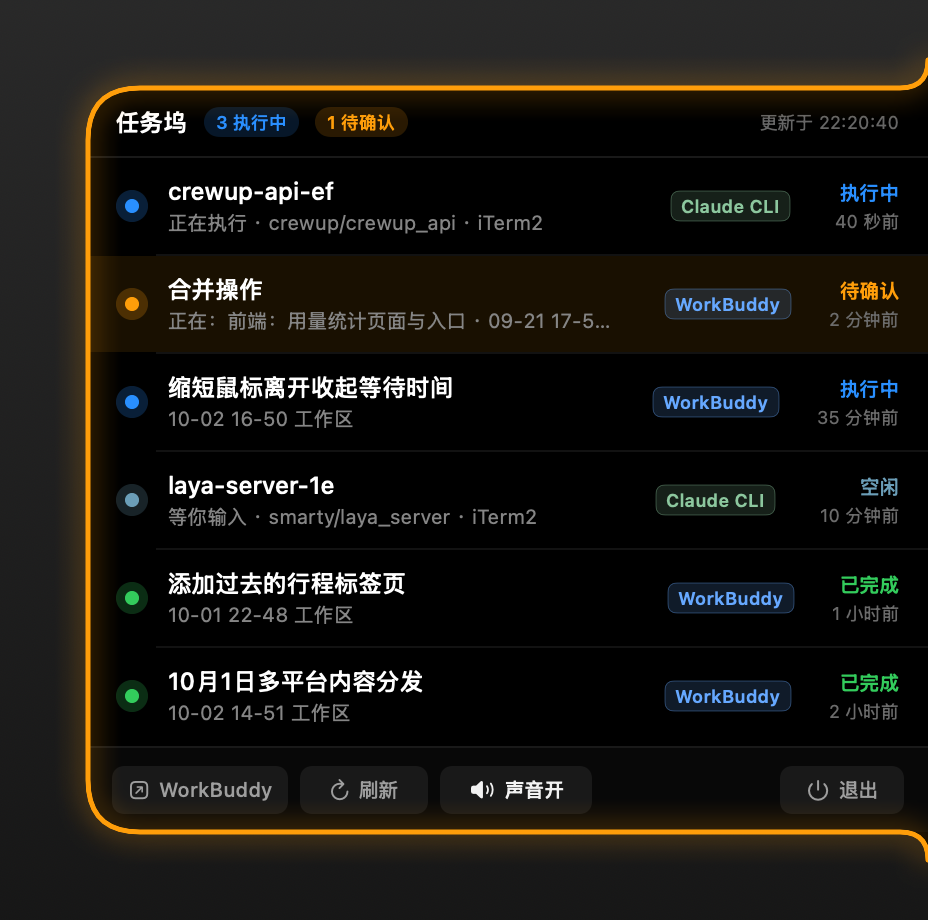
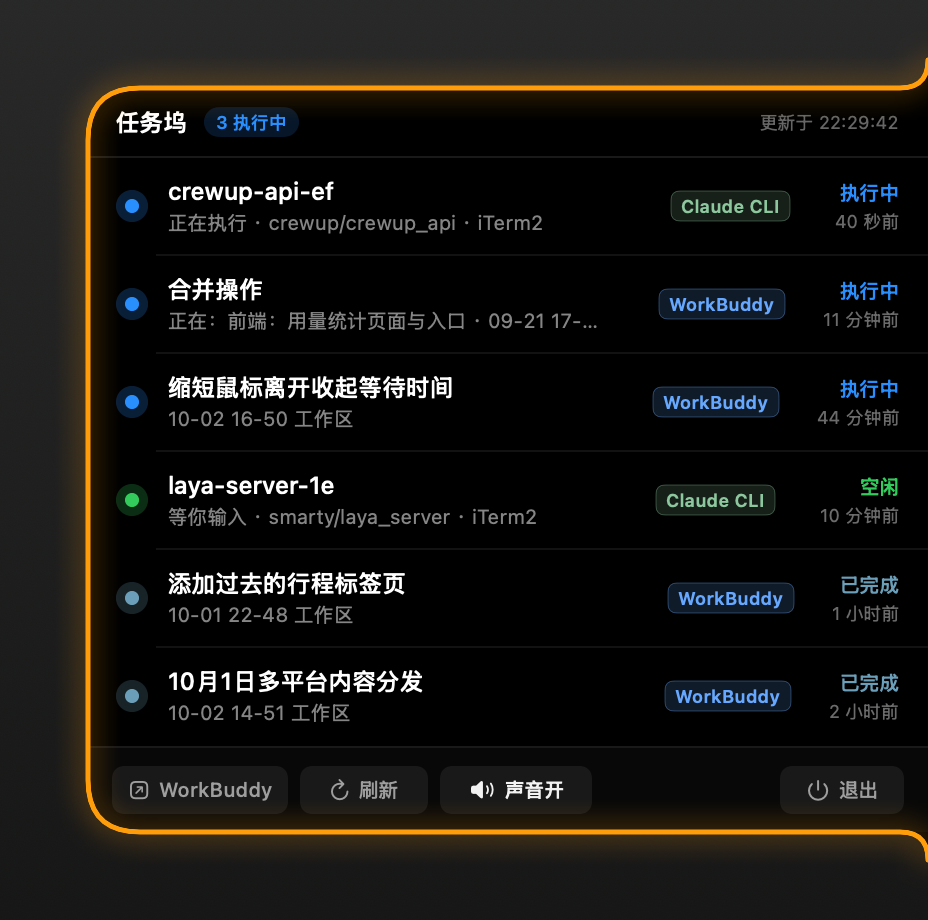
refactor: 两个数据源统一到同一套状态语义
WorkBuddy 与 Claude Code CLI 各自的 status 取值，之前只是各自映射，
同一个词在两边的含义对不上（CLI 的 idle 和 WorkBuddy 的 completed 分列两行）。
现在收敛成一套，并按颜色区分，改配色而不改词：

  执行中  蓝   #298FFF  WorkBuddy working / CLI busy
  待确认  橙   #FF9E0A  WorkBuddy pending、unread!=0、CLI waiting
  空闲    明亮绿 #33CC5C  CLI idle（进程还活着，停在提示符）
  已完成  灰蓝   #6B9EB8  早就结束了
  失败    红    #FF4A3D  error / terminated / result_success=0

`done` 是同一个逻辑状态，只按时间分两个视觉档位（recentDoneWindow = 10 分钟）：
结束 10 分钟内显示成明亮的「空闲」，再久沉成灰蓝的「已完成」。这样视线焦点
自然落在刚有动静的东西上，几十小时前的旧任务不会一直抢眼。

- 颜色是「空闲 ↔ 已完成」对调：空闲由灰蓝换成明亮绿，已完成由明亮绿换成灰蓝
- 展示状态与逻辑状态有意分开（TaskItem.displayState）：needsConfirm 一律显示
  待确认；done 按新鲜度分档。改配色/排序走 displayState，别动 state——
  state 还牵扯告警级别与状态跃迁检测
- 排序也改走 displayState，刚结束的（绿）排在早就结束的（灰）前面
- 新增 `--states`：把整张映射表离线打出来，时间分档只有它能验；
  scripts/smoke-test.sh 增加一节断言同一张表（1/4 → 5 节）
- App 图标的第三颗状态点随之改称「空闲」（配色未变，本来就是那个绿）

diff --git a/Sources/Models.swift b/Sources/Models.swift
@@ -1,11 +1,25 @@
 import Foundation
 import SwiftUI
 
-/// 任务状态（对外展示用）
+/// 任务状态（对外展示用）。
+///
+/// WorkBuddy 和 Claude Code CLI 各自把自家取值映射到这一套上，
+/// 保证同一个词在两个来源里指的是同一件事：
+///
+/// | 状态 | 含义 | 配色 |
+/// |---|---|---|
+/// | `running` | 正在干活 | 蓝 |
+/// | `needConfirm` | 等你确认 / 授权 / 有未读结果 | 橙 |
+/// | `idle` | 没事干（会话活着但停着；或任务刚结束） | **明亮绿** |
+/// | `done` | 早就结束了 | **灰蓝** |
+/// | `failed` | 失败 / 中断 | 红 |
+///
+/// 「刚结束」和「早就结束」是同一个逻辑状态的两个视觉档位，
+/// 由 `TaskItem.displayState` 按时间窗分派，见 `recentDoneWindow`。
 enum TaskState: String {
     case running      // 执行中
-    case idle         // 活着但空闲（终端里的 claude 停在提示符）
-    case needConfirm  // 待确认（等你确认 / 选择，或有未读结果）
+    case idle         // 空闲
+    case needConfirm  // 待确认
     case done         // 已完成
     case failed       // 失败 / 中断
 
@@ -33,9 +47,11 @@ enum TaskState: String {
     var color: Color {
         switch self {
         case .running:     return Color(red: 0.16, green: 0.56, blue: 1.00)
-        case .idle:        return Color(red: 0.42, green: 0.62, blue: 0.72)
         case .needConfirm: return Color(red: 1.00, green: 0.62, blue: 0.04)
-        case .done:        return Color(red: 0.20, green: 0.80, blue: 0.36)
+        // 明亮绿：刚有动静 / 会话活着且空闲
+        case .idle:        return Color(red: 0.20, green: 0.80, blue: 0.36)
+        // 灰蓝：安静下来了（这里用的是「空闲」原来那个颜色）
+        case .done:        return Color(red: 0.42, green: 0.62, blue: 0.72)
         case .failed:      return Color(red: 1.00, green: 0.29, blue: 0.24)
         }
     }
@@ -96,10 +112,21 @@ struct TaskItem: Identifiable, Equatable {
     var updatedAt: Date
     var needsConfirm: Bool = false   // 等你确认 / 有未读结果
 
-    /// 展示用状态：只要「等你关注」，列表里就一律显示成橙黄的「待确认」。
-    /// 否则会出现标题栏写着「N 待确认」、列表里却看不出是哪一个的情况
-    /// （典型场景：任务已完成但结果未读 → needsConfirm 为真、state 仍是 done）。
-    var displayState: TaskState { needsConfirm ? .needConfirm : state }
+    /// 多久之内结束的任务还算「刚完成」
+    static let recentDoneWindow: TimeInterval = 10 * 60
+
+    /// 展示用状态（圆点、状态文字、排序都按它来）。
+    ///
+    /// - 只要「等你关注」→ 一律「待确认」，避免标题栏写着 N 待确认、列表里却找不出是哪一个
+    /// - 刚结束不久的 → 显示成明亮的「空闲」，它已经没事干了、但还「热」
+    /// - 再久 → 沉成灰蓝的「已完成」
+    var displayState: TaskState {
+        if needsConfirm { return .needConfirm }
+        if state == .done, Date().timeIntervalSince(updatedAt) < Self.recentDoneWindow {
+            return .idle
+        }
+        return state
+    }
 
     /// 工作目录的可读标签
     /// - WorkBuddy 的时间戳工作区（2026-10-02-16-56-30）→ 转成「10-02 16:56」这种可读时间

diff --git a/Sources/main.swift b/Sources/main.swift
@@ -40,6 +40,46 @@ if let idx = CommandLine.arguments.firstIndex(of: "--hittest") {
     exit(0)
 }
 
+// 状态映射自检：NotchTasks --states
+// 把「逻辑状态 + 新鲜度」→「展示状态 + 配色」整张表打出来，供人工核对 / 冒烟测试断言。
+// 时间相关的分档（刚完成 vs 早就完成）只有靠它才能离线验。
+if CommandLine.arguments.contains("--states") {
+    func hex(_ c: Color) -> String {
+        guard let s = NSColor(c).usingColorSpace(.sRGB) else { return "?" }
+        return String(format: "#%02X%02X%02X",
+                      Int((s.redComponent * 255).rounded()),
+                      Int((s.greenComponent * 255).rounded()),
+                      Int((s.blueComponent * 255).rounded()))
+    }
+    let now = Date()
+    // (场景, 逻辑状态, 距今多久, 是否需要你确认)
+    let cases: [(String, TaskState, TimeInterval, Bool)] = [
+        ("WorkBuddy working",  .running,     30,          false),
+        ("WorkBuddy pending",  .needConfirm, 30,          true),
+        ("Claude CLI busy",    .running,     5,           false),
+        ("Claude CLI waiting", .needConfirm, 5,           true),
+        ("Claude CLI idle",    .idle,        5,           false),
+        ("完成 10 秒",          .done,        10,          false),
+        ("完成 9 分钟",         .done,        9 * 60,      false),
+        ("完成 11 分钟",        .done,        11 * 60,     false),
+        ("完成 3 小时",         .done,        3 * 3600,    false),
+        ("完成但有未读",        .done,        3 * 3600,    true),
+        ("失败",               .failed,      60,          false),
+    ]
+    print(String(format: "%-18@ %-10@ %-10@ %-8@ %@",
+                 "场景" as NSString, "逻辑" as NSString, "展示" as NSString, "配色" as NSString, "排序" as NSString))
+    for (name, state, age, confirm) in cases {
+        var item = TaskItem(id: name, kind: .session, title: name, detail: nil, cwd: nil,
+                            state: state, updatedAt: now.addingTimeInterval(-age))
+        item.needsConfirm = confirm
+        let shown = item.displayState
+        print(String(format: "%-18@ %-10@ %-10@ %-8@ %d",
+                     name as NSString, state.label as NSString,
+                     shown.label as NSString, hex(shown.color) as NSString, shown.sortRank))
+    }
+    exit(0)
+}
+
 // 无 GUI 自检：NotchTasks --dump  打印当前读取到的任务后退出
 if CommandLine.arguments.contains("--dump") {
     let store = TaskStore()

diff --git a/Sources/TaskStore.swift b/Sources/TaskStore.swift
@@ -129,7 +129,9 @@ final class TaskStore: ObservableObject {
         lastRefresh = Date()
 
         items.sort { a, b in
-            if a.state.sortRank != b.state.sortRank { return a.state.sortRank < b.state.sortRank }
+            // 按「展示状态」排：刚结束的（显示成空闲绿）要排在早就结束的（已完成灰）前面
+            let ra = a.displayState.sortRank, rb = b.displayState.sortRank
+            if ra != rb { return ra < rb }
             return a.updatedAt > b.updatedAt
         }
 
@@ -262,7 +264,7 @@ final class TaskStore: ObservableObject {
             // WorkBuddy 的 status 实际取值：working / pending / completed /
             // error / terminated / archived（archived 已在 SQL 里排除）。
             // 注意 pending **不是「排队」**，而是停在等你确认 / 选择，
-            // 所以映射成待确认（橙黄），并让它参与告警。
+            // 所以映射成「待确认」（橙黄），并让它参与告警。
             let state: TaskState
             switch raw {
             case "working":             state = .running
@@ -291,9 +293,14 @@ final class TaskStore: ObservableObject {
     private func fetchClaudeSessions() -> [TaskItem] {
         if demoClaude { return Self.demoClaudeItems() }
         return ClaudeStore.liveSessions().map { s in
-            // Claude Code 的 status 已知取值：busy / idle / waiting。
-            // waiting = 停在等用户确认或授权（status == waiting 时才有 waitingFor），
-            // 其余未知取值一律按「在跑」处理，并把原值显示出来便于排查。
+            // Claude Code 的 status 已知取值：busy / idle / waiting，
+            // 和 WorkBuddy 那边的映射对齐（同一个词 = 同一件事）：
+            //
+            //   busy    → 执行中   （= WorkBuddy working）
+            //   waiting → 待确认   （= WorkBuddy pending，且带 waitingFor）
+            //   idle    → 空闲     （会话活着但停着；WorkBuddy 那边没有对应概念）
+            //
+            // 未知取值按「在跑」处理，原值只写进调试日志，不显示到界面上。
             let st = s.status.lowercased()
             let detail: String
             switch st {

diff --git a/tools/make-icon.swift b/tools/make-icon.swift
@@ -5,7 +5,7 @@
 //   swift tools/make-icon.swift
 //
 // 图标就是 App 本身的缩影：一块深色「屏幕」，右边缘挂着一个带反角的把手，
-// 左边三颗状态点（执行中 / 待确认 / 已完成），用的是 App 里同一套颜色。
+// 左边三颗状态点（执行中 / 待确认 / 空闲），用的是 App 里同一套颜色。
 // 设计基准 1024×1024，等比缩放到各尺寸；改完重跑本脚本即可。
 //
 import AppKit
@@ -20,7 +20,7 @@ let docs = root.appendingPathComponent("docs")
 // MARK: 颜色（与 Sources/Models.swift 里的 TaskState.color 对齐）
 let cRunning = CGColor(red: 0.16, green: 0.56, blue: 1.00, alpha: 1)
 let cConfirm = CGColor(red: 1.00, green: 0.62, blue: 0.04, alpha: 1)
-let cDone    = CGColor(red: 0.20, green: 0.80, blue: 0.36, alpha: 1)
+let cIdle    = CGColor(red: 0.20, green: 0.80, blue: 0.36, alpha: 1)
 
 /// 右侧贴边、左圆角、右侧带反角的把手——和 App 里 DockShape 同一套几何
 func handlePath(_ rect: CGRect, corner: CGFloat, notch: CGFloat) -> CGPath {
@@ -74,9 +74,9 @@ func makeIcon(px: Int) -> CGImage? {
     }
     ctx.restoreGState()
 
-    // ---- 左：三颗状态点（执行中 / 待确认 / 已完成）----
+    // ---- 左：三颗状态点（执行中 / 待确认 / 空闲）----
     // x 取「squircle 左边缘」到「把手左边缘」的中点，视觉上才不偏
-    let dots: [(y: CGFloat, c: CGColor)] = [(404, cRunning), (512, cConfirm), (620, cDone)]
+    let dots: [(y: CGFloat, c: CGColor)] = [(404, cRunning), (512, cConfirm), (620, cIdle)]
     for d in dots {
         ctx.setShadow(offset: .zero, blur: 40, color: d.c.copy(alpha: 0.9))
         ctx.setFillColor(d.c)

diff --git a/README.md b/README.md
@@ -95,8 +95,17 @@ cd agent_task_hub
 | WorkBuddy（对话 / 自动化） | `WorkBuddy` | 蓝 | 切回 WorkBuddy |
 | 终端 Claude Code CLI | `Claude CLI` | 绿 | 切到 iTerm2 |
 
-状态则由左侧圆点 + 右侧文字表示（执行中 / 空闲 / 待确认 / 已完成 / 失败），
-和来源是两个独立的维度，互不干扰。
+状态由左侧圆点 + 右侧文字表示，**按颜色区分**，不用去猜词义：
+
+| 状态 | 颜色 | 什么时候 |
+|---|---|---|
+| 执行中 | 蓝 | 正在干活 |
+| **待确认** | 橙 | 等你确认 / 授权 / 有未读结果 |
+| 空闲 | 明亮绿 | 没事干：会话活着但停着，或任务刚结束不久 |
+| 已完成 | 灰蓝 | 早就结束了 |
+| 失败 | 红 | 失败 / 中断 |
+
+和来源是两个独立的维度，互不干扰：来源看右侧标签，状态看圆点 + 颜色。
 
 ## 提醒形态
 
@@ -187,22 +196,47 @@ cd agent_task_hub
 
 ## 状态映射
 
-| 展示 | 来源 |
-|---|---|
-| 执行中 | WorkBuddy `sessions.status = 'working'` / CLI `status = 'busy'` |
-| **待确认** | WorkBuddy `sessions.status = 'pending'`（**等你确认 / 选择**）、CLI `status = 'waiting'`、`sessions.unread = 1`、自动化 `automation_runs.read_at IS NULL` |
-| 空闲 | CLI `status = 'idle'`（进程还在，停在提示符） |
-| 已完成 | `sessions.status = 'completed'` |
-| 失败 | `status in ('error','terminated')` / 自动化 `result_success = 0` |
-| 不显示 | `sessions.status = 'archived'` |
+WorkBuddy 和 Claude Code CLI 各自把自家取值映射到**同一套**状态上，
+同一个词在哪边都是同一件事：
+
+| 展示 | 含义 | 配色 | 来源 |
+|---|---|---|---|
+| 执行中 | 正在干活 | 蓝 `#298FFF` | WorkBuddy `status = 'working'` / CLI `status = 'busy'` |
+| **待确认** | 等你确认 / 授权 / 有未读结果 | 橙 `#FF9E0A` | WorkBuddy `status = 'pending'`、`unread != 0`、自动化 `read_at IS NULL`、CLI `status = 'waiting'` |
+| 空闲 | 没事干 | **明亮绿** `#33CC5C` | CLI `status = 'idle'`（进程还在、停在提示符）；**或任务刚结束**（见下） |
+| 已完成 | 早就结束了 | **灰蓝** `#6B9EB8` | `status = 'completed'`，且结束已超过 10 分钟 |
+| 失败 | 失败 / 中断 | 红 `#FF4A3D` | `status in ('error','terminated')` / 自动化 `result_success = 0` |
+| 不显示 | — | — | `status = 'archived'` |
+
+### 「刚完成」与「早就完成」
+
+`done` 是**同一个逻辑状态**，只按时间分成两个视觉档位
+（`TaskItem.recentDoneWindow`，默认 10 分钟）：
+
+| 结束距今 | 显示 | 配色 |
+|---|---|---|
+| ≤ 10 分钟 | 空闲 | 明亮绿，还「热」 |
+| > 10 分钟 | 已完成 | 灰蓝，安静下来了 |
+
+这样视线焦点天然落在「刚有动静的东西」上，而几十小时前的旧任务不会一直抢眼。
+排序也走展示状态，所以刚结束的（绿）排在早就结束的（灰）前面。
+
+> CLI 的 `idle` 一直显示成绿色的「空闲」——进程还活着，随时可以接着用；
+> 而 WorkBuddy 的任务结束了就是结束了，所以会随着时间从绿沉到灰。
 
 > ⚠ WorkBuddy 的 `pending` 很容易被误读成「排队中」，实际含义是**停在等你确认 / 选择**。
-> 本 App 把它映射成橙黄色的「待确认」并让它参与把手告警——
+> 本 App 把它映射成橙黄的「待确认」并让它参与把手告警——
 > 一个卡在等你回话的任务，正是最该提醒你的事。
->
+
 > 「有未读结果」和「等待确认」都套 24 小时窗口，避免一个没人理会的旧状态让把手永久亮着。
 
 时间窗：列表只显示 7 天内；更早的旧未读不再当作待确认，避免永久亮灯。
+
+整套映射可以离线打出来核对（冒烟测试也在断言它）：
+
+```bash
+./build/NotchTasks --states
+```
 
 ## 构建与运行
 
@@ -221,6 +255,7 @@ make help                # 全部命令（build / run / test / preview / icons /
 ./build/NotchTasks --preview /tmp/np         # 离屏渲染各状态界面 PNG（不需要屏幕录制权限）
 ./build/NotchTasks --animframes /tmp/an      # 逐帧渲染生长动画（progress 0→1），验证锚点
 ./build/NotchTasks --hittest 150 81 6        # 面板内坐标 → 命中的行/底栏按钮
+./build/NotchTasks --states                  # 状态映射表（逻辑状态 → 展示状态 + 配色）
 ```
 
 在真实窗口里抓展开动画的帧（离屏渲染验证不了窗口/容器在各时刻的实际状态）：

diff --git a/CONTRIBUTING.md b/CONTRIBUTING.md
@@ -45,13 +45,14 @@ NOTCHTASKS_DEBUG=1 NOTCHTASKS_ANIMPROBE=/tmp/live \
 ./build/NotchTasks --preview /tmp/np         # 离屏渲染各状态 PNG
 ./build/NotchTasks --animframes /tmp/an      # 逐帧渲染生长动画
 ./build/NotchTasks --hittest 150 90 6        # 面板内坐标 → 命中的行/底栏按钮
+./build/NotchTasks --states                  # 状态映射表（逻辑状态 → 展示状态 + 配色）
 ```
 
 ## 代码结构
 
 ```
 Sources/
-  main.swift        入口，--dump / --preview / --animframes / --hittest
+  main.swift        入口，--dump / --preview / --animframes / --hittest / --states
   Models.swift      TaskItem / TaskKind / TaskState / AlertLevel
   Database.swift    只读 SQLite（快照复制后查询）
   ClaudeStore.swift 终端 Claude Code CLI 会话（只读 ~/.claude/sessions）
@@ -108,6 +109,20 @@ SwiftUI 的 `Button` / `onTapGesture` 收不到点击。所以行点击和底栏
   （如 `"permission prompt"`）——漏了它就会掉进兜底分支，把英文状态显示到界面上
 
 遇到没见过的取值：映射按「运行中」兜底，原始值写进 `NOTCHTASKS_DEBUG` 日志，别直接显示给用户。
+
+**另一个坑：逻辑状态 ≠ 展示状态。**
+
+`TaskItem.state` 是数据源给的逻辑状态，列表上画的是 `TaskItem.displayState`，两者有意分开：
+
+- `needsConfirm` 为真 → 一律显示「待确认」。否则会出现标题栏写着「N 待确认」、
+  列表里却看不出是哪一个
+- `done` 按 `recentDoneWindow`（10 分钟）分档：窗口内显示成明亮的「空闲」绿，
+  再久沉成灰蓝的「已完成」
+
+改配色/排序请改 `displayState` 那条链路，别去改 `state`——
+`state` 还牵扯告警级别和状态跃迁检测（`detectTransitions`）。
+
+配色和映射可以用 `--states` 离线核对，`scripts/smoke-test.sh` 里也断言了同一张表。
 
 ## 提交信息
 

diff --git a/CHANGELOG.md b/CHANGELOG.md
@@ -24,6 +24,10 @@
   用 `status` 字段区分执行中（`busy`）与空闲（`idle`）；
   存活判断结合 `kill(pid,0)` 与 `proc_pidpath`，避免 PID 复用造成的幽灵会话
 - **列表区分来源**：每一行右侧带来源标签，`WorkBuddy`（蓝）/ `Claude CLI`（绿）
+- **统一状态语义**：WorkBuddy 与 Claude Code CLI 映射到同一套展示状态，按颜色区分——
+  执行中（蓝）/ 待确认（橙）/ 空闲（明亮绿）/ 已完成（灰蓝）/ 失败（红）。
+  `done` 是同一个逻辑状态，按时间分两个视觉档位：**结束 10 分钟内显示成明亮的「空闲」**，
+  再久就沉成灰蓝的「已完成」，让视线焦点自然落在刚有动静的东西上
 - **点击跳转**：WorkBuddy 任务切回 WorkBuddy，CLI 任务切到 iTerm2
 - **提醒形态**：把手脉冲描边 + 同色光晕 + 角标，另有声音（Glass / Ping / Basso）与系统通知
 - **菜单栏图标**：显示条数、显示屏幕、系统通知开关、刷新、退出
